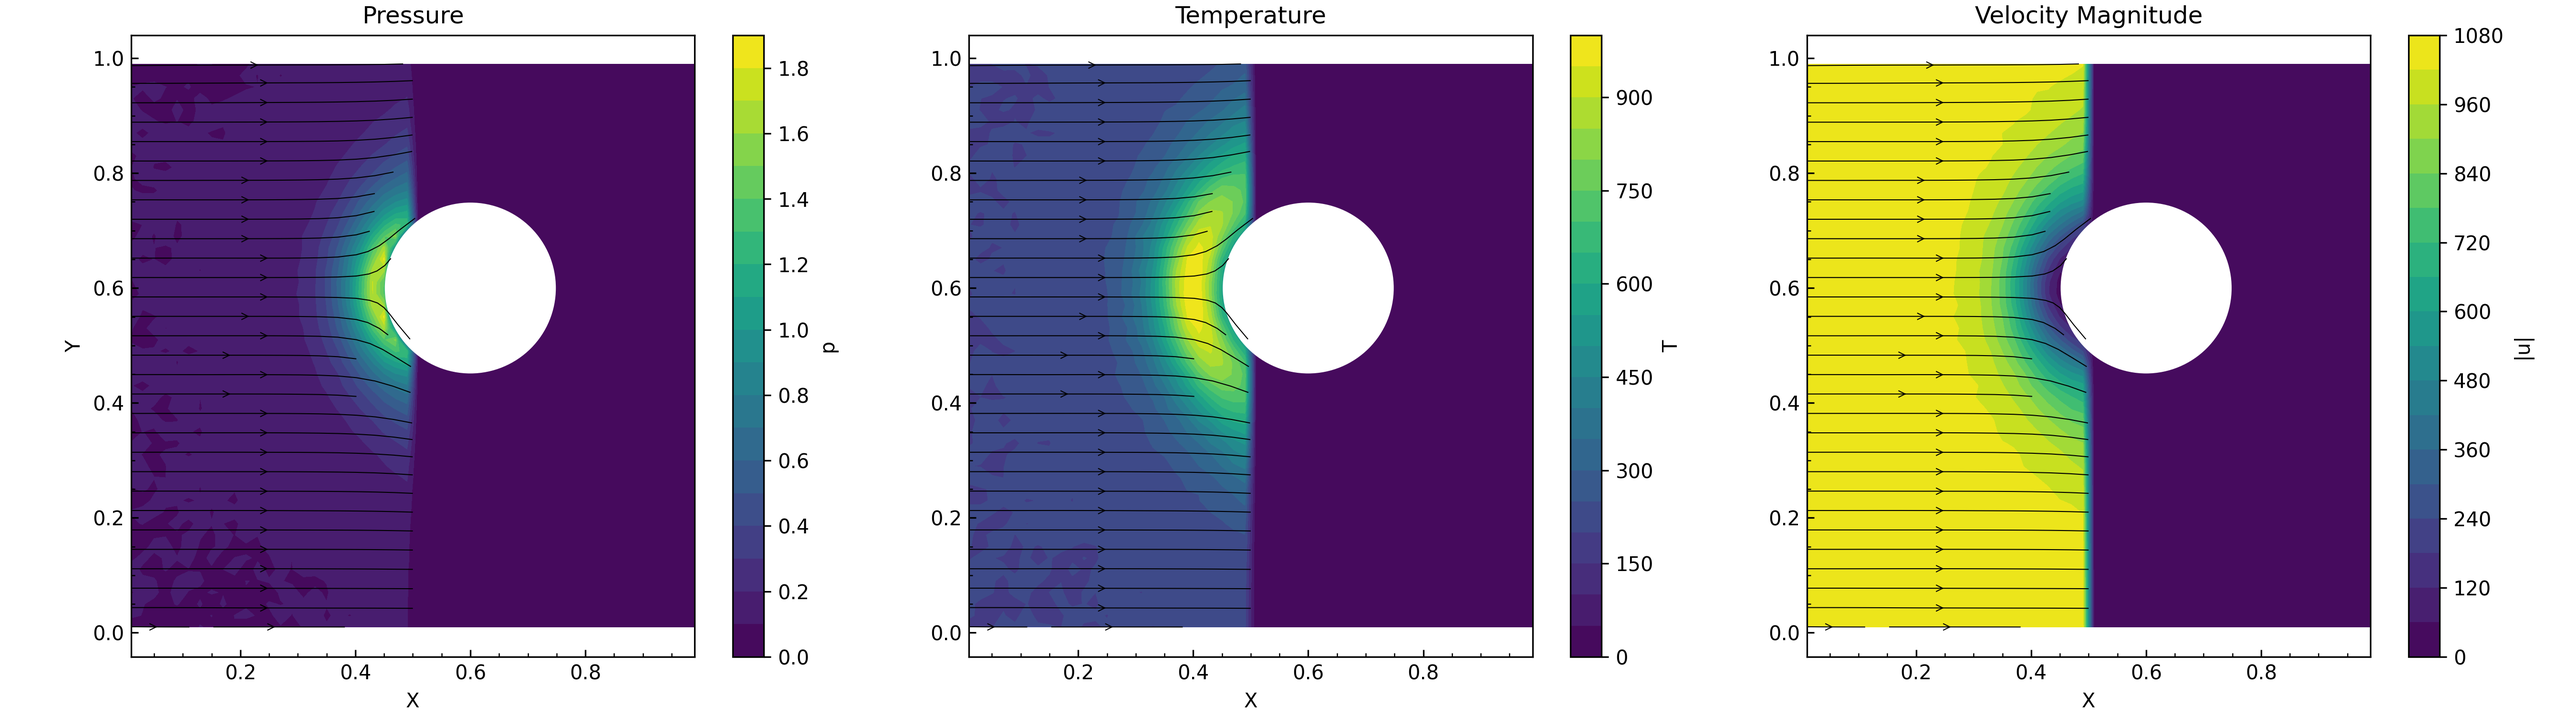
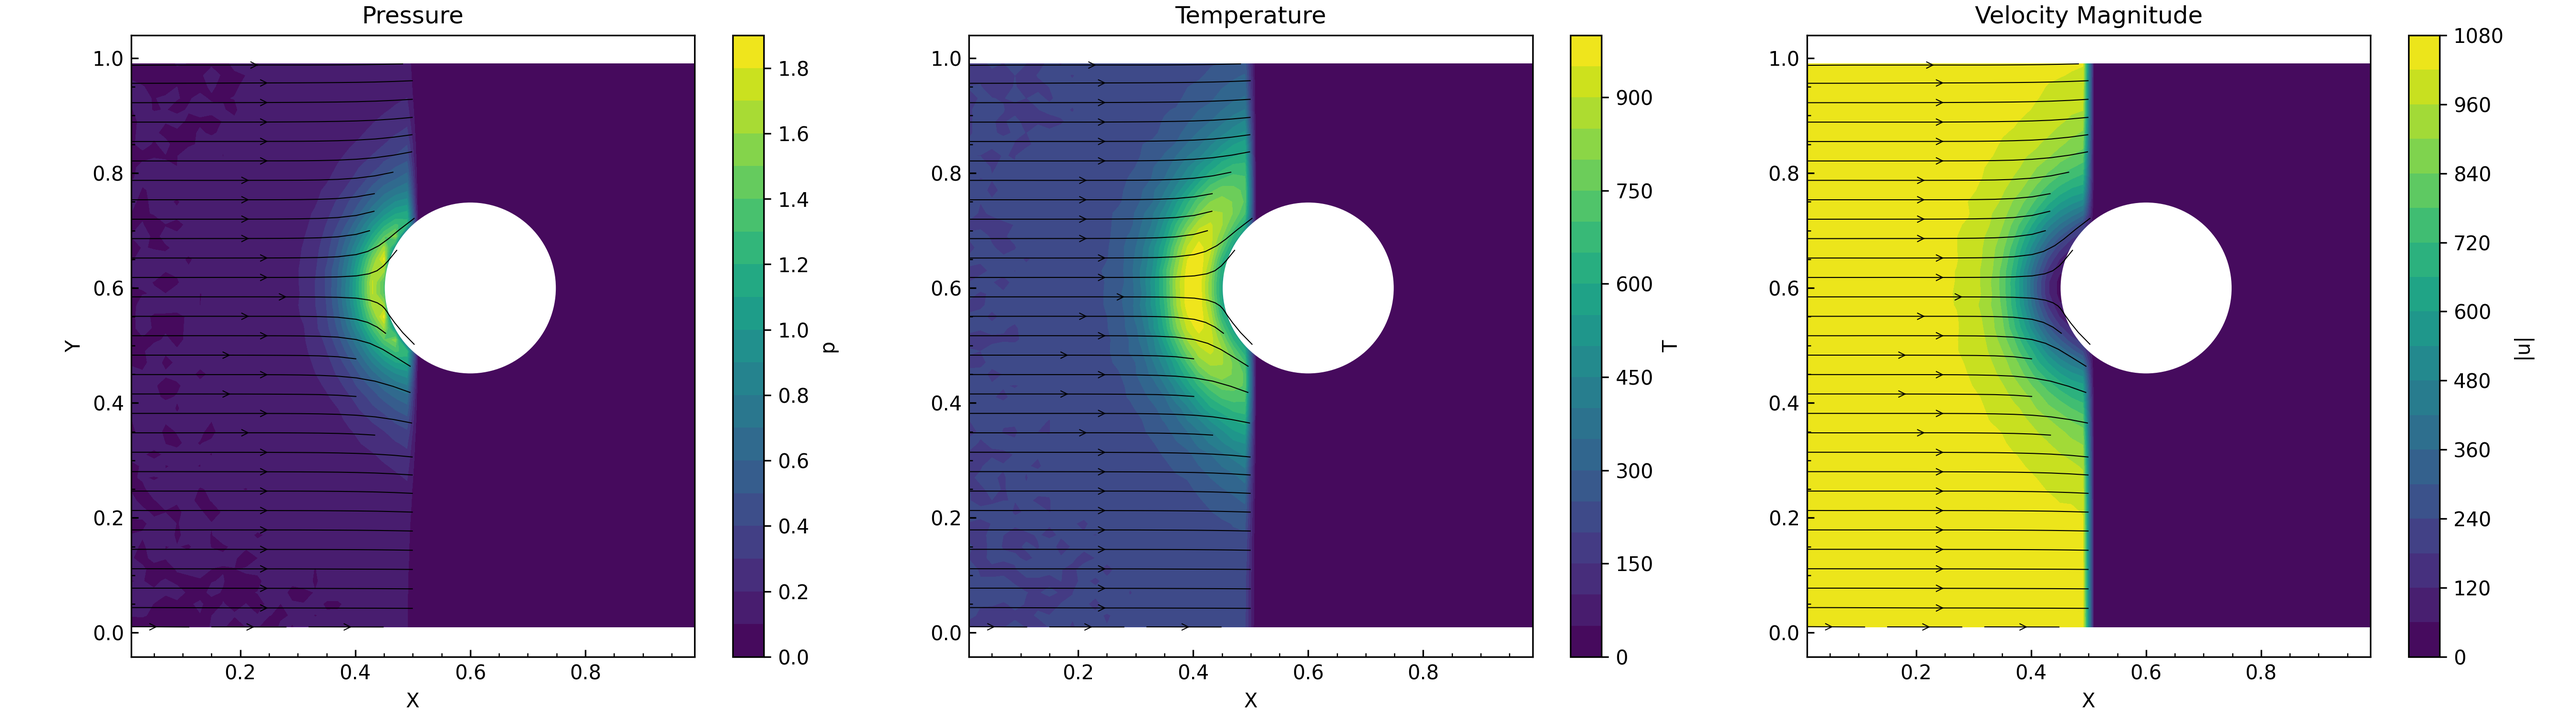
again reduce

Changed region(s): [[0.7778, 0.6133, 0.8089, 0.644], [0.7778, 0.184, 0.8089, 0.2147], [0.7467, 0.3987, 0.7778, 0.4293]]

diff --git a/cuda/include/config.h b/cuda/include/config.h
@@ -4,17 +4,15 @@
 #include "object.h"
 #include <cuda_runtime.h>
 
-#define MAX_PARTICLES 30000000
+#define MAX_PARTICLES 15000000
 #define MAX_PARTICLES_PER_CELL 750
 #define NX 50
-#define EXPECTED_GPU_COUNT 2
-#define NX_local (NX / EXPECTED_GPU_COUNT)
 #define NY 50
 #define NZ 50
 
 #define PARTICLES_FIELD_SZ (MAX_PARTICLES * sizeof(float))
-#define SAMPLES_SZ (NX_local * NY * NZ * sizeof(Cell))
-#define CELL_COUNT_SZ (NX_local * NY * NZ * sizeof(int))
+#define SAMPLES_SZ (NX * NY * NZ * sizeof(Cell))
+#define CELL_COUNT_SZ (NX * NY * NZ * sizeof(int))
 // #define CELL_LIST_SZ (NX * NY * NZ * MAX_PARTICLES_PER_CELL * sizeof(int))
 
 typedef struct {

diff --git a/cuda/include/mpi_helper.h b/cuda/include/mpi_helper.h
@@ -16,7 +16,7 @@ typedef struct {
     float slabWidth;
     float xMin;
     float xMax;
-    int kOffset;
+    // int kOffset;
 
     // Three boolean arrays for CUB scans
     int *d_flag;
